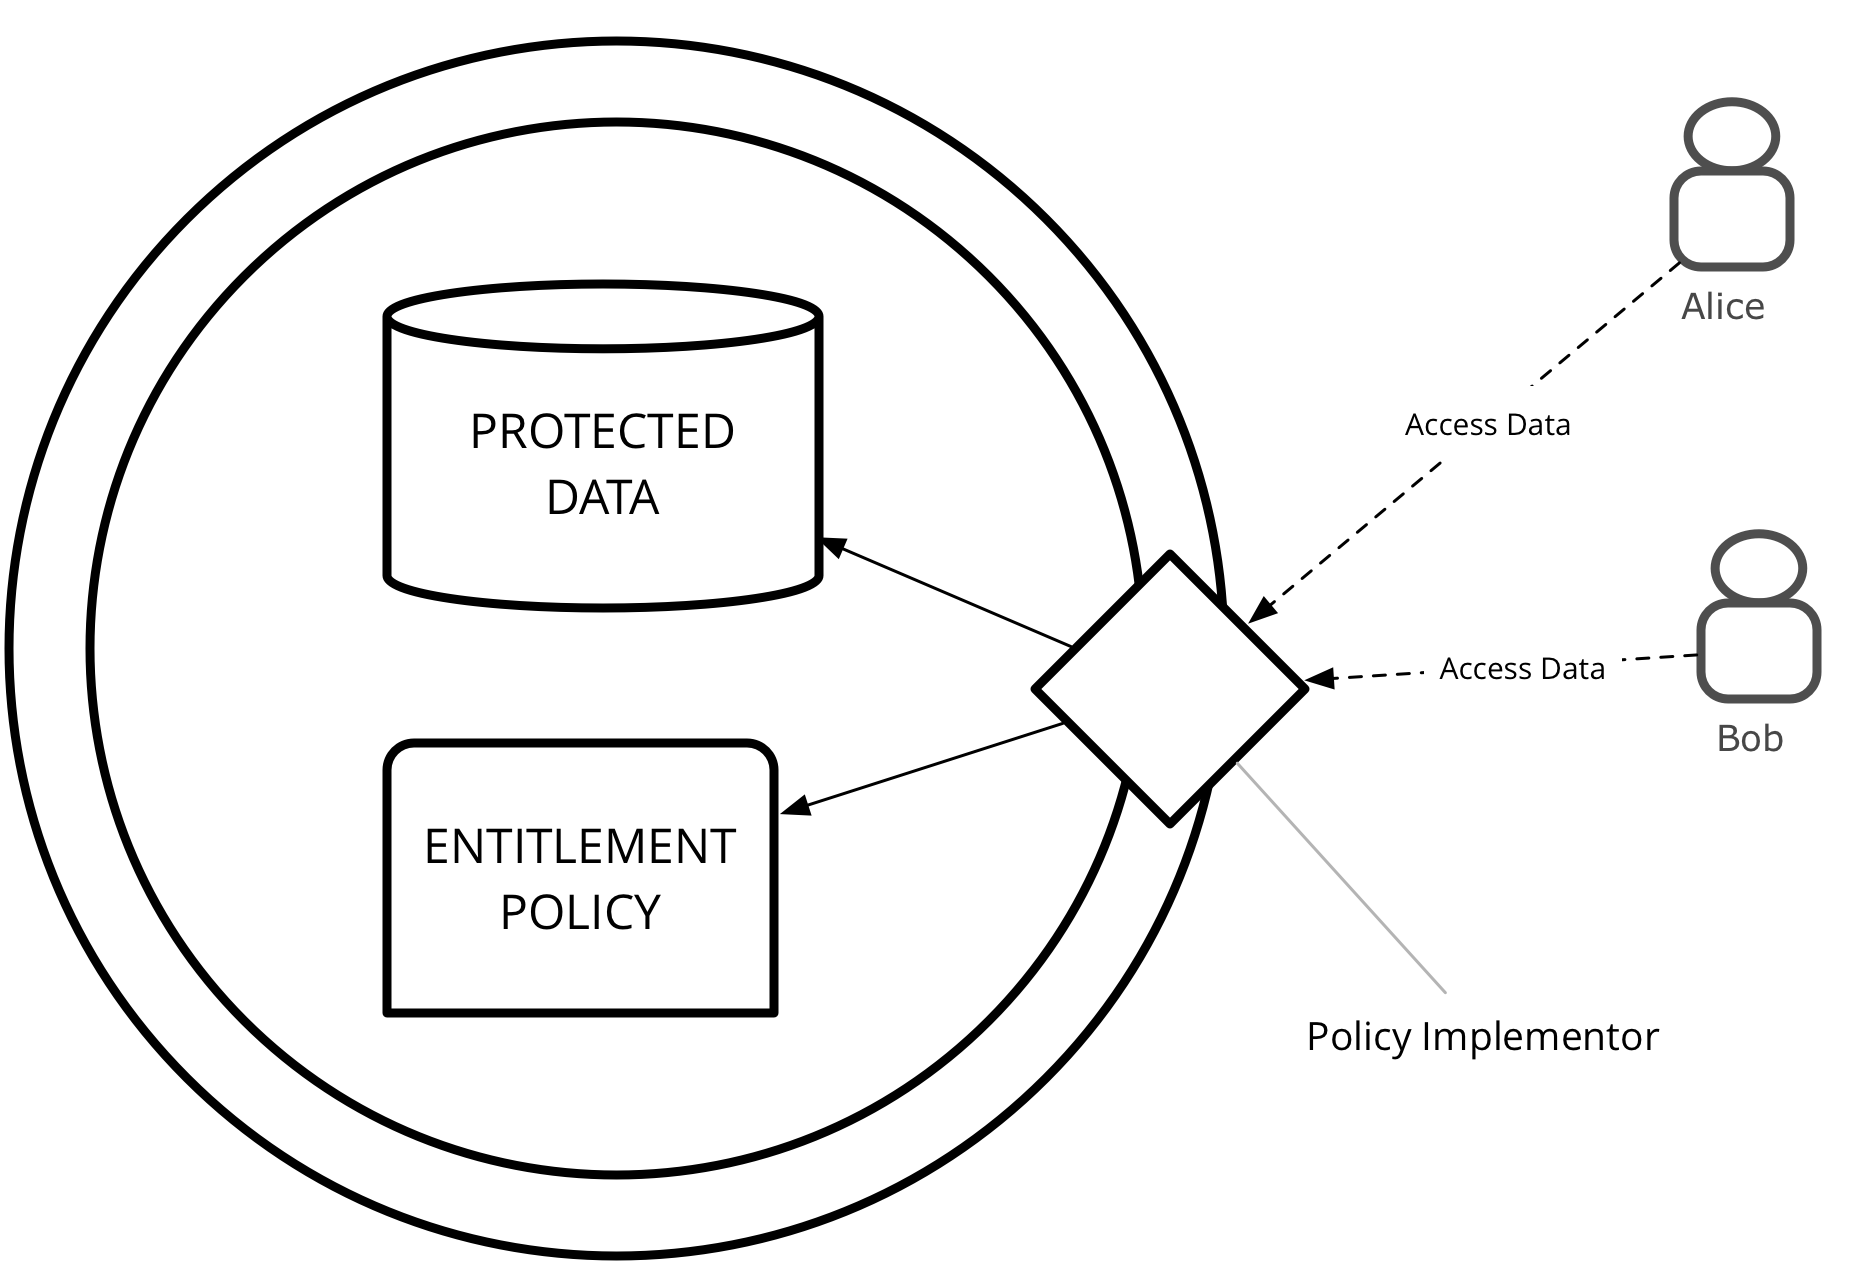
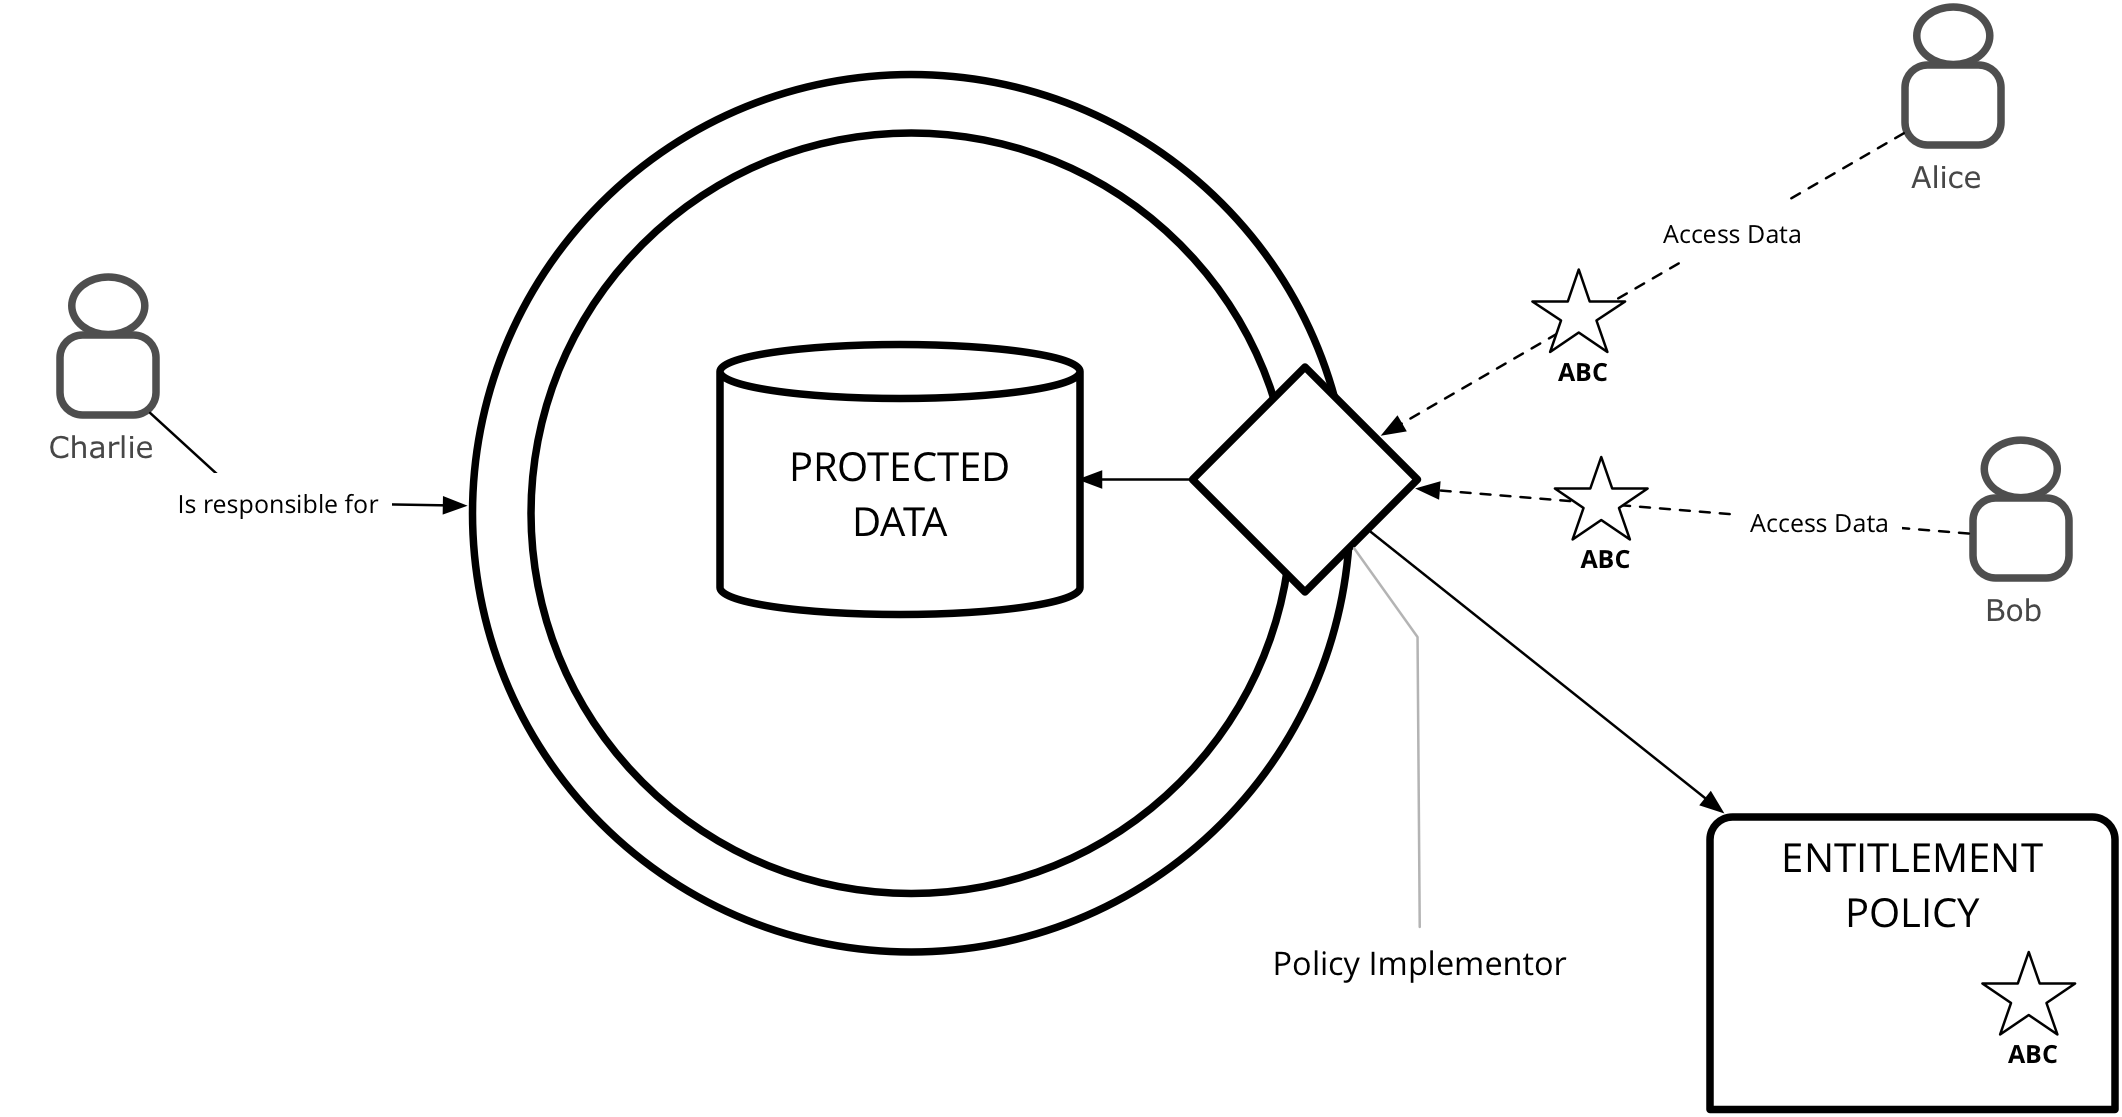
Sorting TOC for glossary and other changes

diff --git a/decode-glossary.md b/decode-glossary.md
@@ -1,109 +1,109 @@
 # DECODE Glossary
 
-### IDENTITY
+##### IDENTITY
 
-### DECODE IDENTITY (DCID)
+##### DECODE IDENTITY (DCID)
 
-### USER JOURNEY
+##### USER JOURNEY
 
-### LEDGER HOST
+##### LEDGER HOST
 
-### Account
+##### Account
 An account is the software construct within decode that provides control of attributes and represents either the Participant, Operator or Attribute verifier in any decode transaction. The account will ultimately relate to some cryptographic construct such as private / public key pair. Attributes will be related to and controlled by an account. An account will be able to submit transactions to the ledger.
 
-### Attribute
+#### Attribute
 All data which is in DECODE is attributes. Conversation about whether all data relates to "Attributes about a participant" - simple answer is "yes" - could be an interesting discussion about. All attributes have the potential to demonstrate Provenance.
 
-### Attribute provenance
+#### Attribute provenance
 Meta-data related to an attribute that relates it to an ontology. All attributes must specify a link to an ontology. We may also consider optionally adding other meta-data to attributes that for example describes the source of the attribute data.
 
-### Attribute Provenance Verification
+#### Attribute Provenance Verification
 A cryptographic demonstration of the validity / (assurance?) of the provenance of an attribute. A key property of provenance is that it should be possible to demonstrate provenance without revealing any connection back to the decode account and hence all the other attributes related to it, thus preserving privacy of the participant. The assumed mechanism for this is via some implementation of Zero Knowledge Proofs. All provenance verification must be cryptographically relatable back to an account within DECODE.
 
-### Attribute vault
+#### Attribute vault
 Process running in the DECODE OS. Allows to control access to the attribute data.
 
-### Attribute verifier
+#### Attribute verifier
 An entity which has the credentials / authority to verify the provenance of an attribute. The expression of this verification will be through cryptographic form which will then be associated with the attribute owned by a participant. e.g. Participant Alice has the attribute "resident of city X" which is related to some cryptographic evidence that this claim is true, traceable back to some authoritative source of city X. An attribute verifier will require an account in order to be able to create this verification. The entity who is the attribute verifier may act also act as an operator at the same time. Further, attribute verification and the subsequent use of that verification may happen within the same application. The authenticity of the verifier may itself be verified by its own attributes.
 
-### Attribute Verification
+#### Attribute Verification
 Synonym: Attribute Provenance Verification
 
-### Blockchain
+#### Blockchain
 A type of distributed ledger that records transactions in a sequence of "blocks"
 
-### DCAPP OPERATOR
+#### DCAPP OPERATOR
 Organisation or individual who is responsible for the build, deployment and operation of an application. Operators may also own and control attributes via an account within decode. Operators may also create new attributes that are then associated with participants. The minimum requirements of eligibility for an operator to deploy an application to the decode platform require further discussion as the platform evolves. Taking into account a general desire for greater transparency to the participant of the organisations with whom they are interacting and sharing data.
 
-### DECODE Architecture
+#### DECODE Architecture
 The internal architecture of DECODE, node anatomy, communications between nodes, components that are used to build DECODE
 
-###DECODE Ecosystem
+####DECODE Ecosystem
 The environment in which DECODE operates, involving other systems, pilots, organisations, open source communities. We can consider various specific ecosystems for example the "Sharing economy" ecosystem which may have different characteristics
 
-###DECODE Platform
+####DECODE Platform
 Software with a high degree of privacy by design that provides the core functionality of DECODE. For example, DECODE OS, Distributed Ledger, device metadata. (Ref: D4.2 - Online Test Infrastructure, D1.1 DECODE Scenarios and requirements definition report)
 
-### DECODE SDK
+#### DECODE SDK
 The SDK is a development kit for modules developed and distributed by other consortium partners. It can be used to build, test and profile individual software applications on top of the DECODE OS, both locally and remotely on the continous integration infrastructure. (Ref: D4.1 DECODE OS Software Development Kit)
 
-### DECODE Node
+#### DECODE Node
 Controlled execution environment where the DECODE Hub runs. Decentralized transactions will be continuously being carried by the NODE.
 (Ref: D4.3  Provisional Hardware Platform)
 
-### DECODE Hub
+#### DECODE Hub
 The DECODE HUB is the hardware component of the DECODE architecture. The HUB is any device on which the DECODE OS is installed. It provides connectivity to IoT devices, connects to other DE- CODE nodes and supports the DECODE OS. As any other component of the DECODE architecture, the HUB needs to follow the values of openness, security, scalability, deployability and flexibility. (Ref: D4.3  Provisional Hardware Platform)
 
-### DECODE OS
+#### DECODE OS
 The DECODE OS is the base operating system running all software designed, developed and deployed for the DECODE project. (Ref: D4.4 First release of DECODE OS). The DECODE OS is a blend of Devuan OS, with DECODE specific packages included within it.
 
-### DECODE Core
+#### DECODE Core
 The DECODE Core is a process that acts as a co-ordinator for different components of DECODE (Application Smart Rule engines, IOT Connector, Attribute Vault, Ledger Connector).Note: this may need refining as it's still under discussion.
 
-### Distributed Ledger
+#### Distributed Ledger
 A consensus of replicated, shared, and synchronized digital data geographically spread across multiple sites, countries, or institutions. There is no central administrator or centralised data storage.
 
-### Entitlement
+#### Entitlement
 It describe which Participant's attribute can view or have access to another attribute.
 
-### IOT Connector
+#### IOT Connector
 Previous Term: Device HubDevice HubMaps IoT data coming from external sensor devices to an ontology known to DECODE.
 
-### Ledger Connector
+#### Ledger Connector
 Allows the processes part of DECODE Core to interface with the Distributed Ledger.
 
-### Ledger Node
+#### Ledger Node
 This term is derived from the Bitcoin concept of a node. Bitcoin is a widely known cryptocurrency based on blockchain that organizes nodes in a peer-to-peer (p2p) network; any node can join and become part of the network. If a node receives new information, it broadcasts it to rest of the network. While all nodes listen to and broadcast information, only special nodes can append information to the blockchain. (Ref: D3.1 Survey of Technologies for ABC, Entitlements and Blockchains)
 
-### Metadata service
+#### Metadata service
 The metadata service is responsible for maintaining an index of discoverable data and their locations, displaying any data that is accessible, allow a user to make an entitlement request to access data that is not yet accessible.  (Ref: D3.2 Data access and Transaction Module)
 
-### Node Host
+#### Node Host
 This refers to an (online) service provider hosting nodes on behalf of participants.Note: this may need refining as it's still under discussion.
 
-### Ontology
+#### Ontology
 In computer science and information science, an ontology is a formal naming and definition of the types, properties, and interrelationships of the entities that really or fundamentally exist for a particular domain of discourse. It is thus a practical application of philosophical ontology, with a taxonomy. [Ontology - Information Science - Wiki]  A referenceable "schema" which describes the attribute. As raised, we need to be careful this does not become too restrictive. There is a wider discussion around this from the device hub work. While all attributes require a definition, registering changes to ontologies is an open process. Some governance / structure will be needed (to be discussed later). We will also need to consider evolution of ontologies over time.
 
-### Participant
+#### Participant
 An individual who digitally participates in the DECODE ecosystem. Participation occurs by interacting with an application. participants own and control attributes via their account.
 
-### Profile
+#### Profile
 Relates to the set of attributes which are required application to run. There are as many profiles as there are Applications. It is application specific as to whether the attributes need to be verified. We need to discuss further the relationship between entitlements and personas, also the user journey when a participant connects to an app for the first time (i.e. some exchange where the app requests entitlement to attributes). Persona may also declare attributes that it will generate and then be associated with an account, for example browsing behaviour, favorites, reccommendations.
 
-### Pilot Application
+#### Pilot Application
 A pilot application is a domain specific software application which will leverage the DECODE platform. Some part of this application may be a website (e.g. DECIDIM) and it is anticipated that some element of the application will involve definition and deployment of Smart Rules, Persona definitions and Ontology meta data.
 
-### Smart Contract
+#### Smart Contract
 A computer protocol intended to facilitate, verify, or enforce the negotiation or performance of a contract. (Wikipedia)
 
-### Smart Rule engine
+#### Smart Rule engine
 Process running in the DECODE OS. It is part of the Application and runs the Application Smart Rules.
 
-### Smart Rule
+#### Smart Rule
 They are Application specific functions that take attributes (or objects) and create entitlements.
 
-### SSO (Single Sign On)
+#### SSO (Single Sign On)
 It is a property of access control of multiple related, yet independent, software systems. With this property, a user logs in with a single ID and password to gain access to a connected system or systems without using different usernames or passwords. (Wikipedia)
 
-### Transaction
+#### Transaction
 Transactions are the application of one or more valid procedures - according to type - to active input objects, and possibly some referenced objects, to create a number of new active output objects. (Ref: Chainspace: A Sharded Smart Contracts Platform)

diff --git a/conceptual_framework.md b/conceptual_framework.md
@@ -229,17 +229,18 @@ Defining and declaring entitlements is a matter of describing access rules. In o
 - Broadcast encryption (e.g. DRM)
 - Attribute based encryption
 
-![Traditional 'data vault' access control](img/access-control-data-vault.png "Traditional 'data vault' access control")
+#### Using ABC as an authorization mechanism
+
+!['Data vault' access control](img/access-control-data-vault.png "'Data vault' access control")
 
 
-**Principle: Access control should live with the data**
+#### Using ABE to protect data for public distribution
 
-For example if the data has been aggregated into a central store, access should only be provided to that data through an API which has access control embedded within it, and which understands the DECODE entitlement policy.
-
-Other ways that this can be achieved are via encryption where the access control is directly related to the data.
+Protected at rest
 
 
-![Asymmetric key based encryption](img/baseline-encryption.png "Asymmetric key based encryption")
+![Attribute based encryption access control](img/abe-with-abc.png "Traditional 'data vault' access control")
+
 
 
 

diff --git a/todo.md b/todo.md
@@ -15,15 +15,20 @@
 
 - Priya
 
-**Hardware Architecture**
+**DECODE Components**
 - Intro - Jim
 - Relay Nodes (validating nodes) - Jim 
 - Wallet Nodes - Jim
 - Hardware hubs - Kristoffer + Ernesto
 - Keys and smart cards - Kristoffer + Ernesto
-- IOT connectivity - MArk
-- Distributed ledger - Alberto
-- smart rules engine - Jaromil
+- IOT connectivity - Mark
+
+
+**Distributed ledger**
+- Alberto
+
+**smart rules engine**
+- Jaromil
 
 **DECODE Applications**
 - what is a decode applciation - Jim 

diff --git a/hardware_supports.md b/hardware_supports.md
@@ -1,4 +1,4 @@
-# DECODE Implementation
+# DECODE Components
 
 
 
@@ -15,6 +15,13 @@
 ## Hardware Hubs
 ## Keys and smart cards
 ## IOT connectivity
+
+- Device Hub
+- What is it 
+- what role does it play?
+
+- Ontologies
+
 ## P2P networking
 
 - p2p
